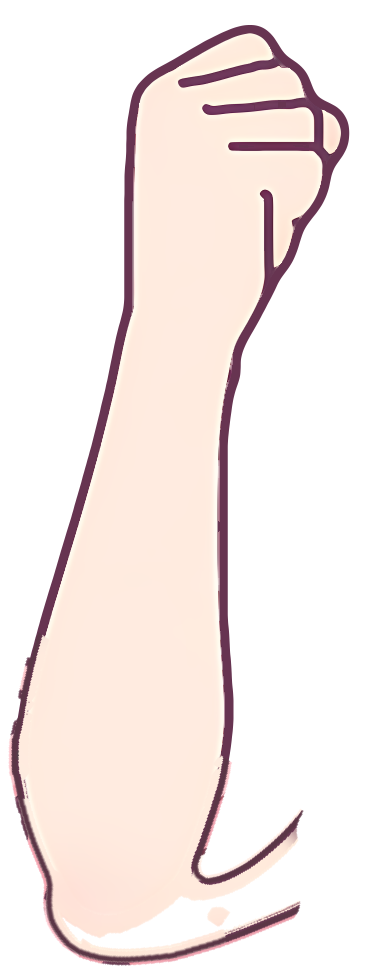
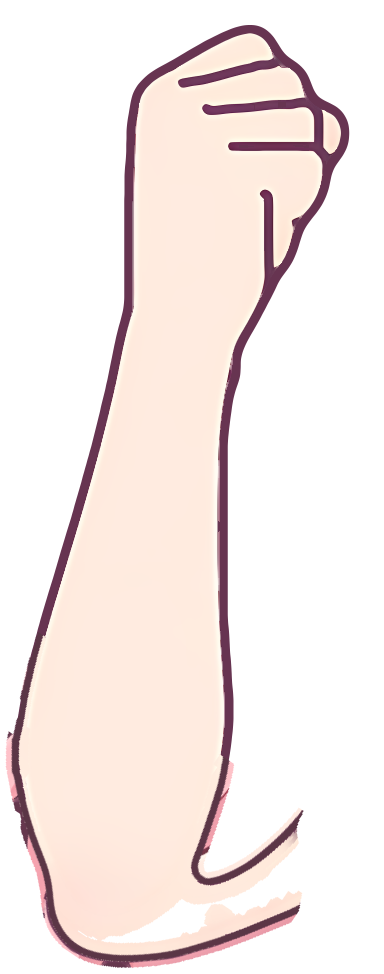
v3 r12: smooth hand_r elbow outline (spline refit), remove arm-left hair spike, clean ghost marks

diff --git a/tools/v3/elbow_r12/fix_elbow2.py b/tools/v3/elbow_r12/fix_elbow2.py
@@ -1,0 +1,87 @@
+import numpy as np, cv2, json
+from PIL import Image
+import comp; comp.PP='/workspace/qa11/el/scratch/'
+from comp import *
+from scipy.ndimage import gaussian_filter1d
+L,M=layers(outfit=True)
+H,W=L['hair'].shape[:2]
+base=compose(L)            # current look (basic)
+hd=L['hand'][...,3]; bu=L['bu'][...,3]; fu=L['fu'][...,3]
+yy,xx=np.mgrid[0:H,0:W]
+# arm part of body_upper only: left of torso line (box coords), rows of elbow
+armzone=(xx<760)&(yy>300)
+U0=((hd>.1)|((bu>.5)&armzone)).astype(np.uint8)
+k=cv2.getStructuringElement(cv2.MORPH_ELLIPSE,(21,21))
+U=cv2.morphologyEx(U0,cv2.MORPH_CLOSE,k)
+U=cv2.GaussianBlur(U.astype(np.float32),(0,0),5)>.5
+U=U.astype(np.uint8)
+cs,_=cv2.findContours(U,cv2.RETR_EXTERNAL,cv2.CHAIN_APPROX_NONE)
+cn=max(cs,key=len)[:,0,:].astype(np.float64)
+def wt(p):
+    x,y=p[:,0],p[:,1]
+    e=np.clip((1-(((x-470)/190.)**2+((y-575)/115.)**2))*4,0,1)
+    k=np.clip(np.maximum((480-x)/15,(y-530)/15),0,1)
+    return e*k
+w=wt(cn)
+sm=np.stack([gaussian_filter1d(gaussian_filter1d(cn[:,i],10,mode='wrap'),6,mode='wrap') for i in (0,1)],1)
+cn2=cn*(1-w[:,None])+sm*w[:,None]
+big=np.zeros((H*4,W*4),np.uint8); cv2.fillPoly(big,[np.round(cn2*4+1.5).astype(np.int32)],1)
+sdb=cv2.distanceTransform(1-big,cv2.DIST_L2,5)-cv2.distanceTransform(big,cv2.DIST_L2,5)
+SD=cv2.resize(sdb,(W,H),interpolation=cv2.INTER_AREA)/4
+U=(SD<0).astype(np.uint8)
+# working area: around the elbow, away from shirt
+work=(yy>380)&(yy<660)&(xx>200)&(xx<640)
+work=work&(cv2.dilate((fu>.05).astype(np.uint8),np.ones((9,9)))==0)
+c=base[...,:3].copy()
+dark=c.sum(2)<1.4
+# skin colour sample & refill interior (kill inner outlines + gap)
+inner=cv2.erode(U,np.ones((15,15)))>0
+bad=inner&work&(dark|( (L['hair'][...,3]>.5)&(hd<.5)&(bu<.5) ))
+bad=cv2.dilate((bad|((hd>.02)&(hd<.98)&(bu>.5))).astype(np.uint8),np.ones((9,9)))>0
+bad&=inner
+bad|=(dark&work&(cv2.distanceTransform(U,cv2.DIST_L2,5)>7))
+good=inner&~bad&work|(inner&~work)
+def refill(img,bad,good,s=9):
+    g=good.astype(np.float32); out=img.copy()
+    num=cv2.GaussianBlur(img*g[...,None],(0,0),s); den=cv2.GaussianBlur(g,(0,0),s)[...,None]
+    out[bad]=(num/np.maximum(den,1e-4))[bad]; return out
+core=bad|(((U>0)&(U0==0))&work)
+dz=cv2.distanceTransform((~core).astype(np.uint8),cv2.DIST_L2,5)
+zf=np.clip((60-dz)/25,0,1)
+d_in0=cv2.distanceTransform(U,cv2.DIST_L2,5)
+rim=(d_in0>0)&(d_in0<11)&work&(((xx-470)/150.)**2+((yy-580)/90.)**2<1)
+bad|=rim
+good&=~rim
+c=refill(c,bad,good,9)
+# new skin area of closed union that was not skin (gap) outside inner as well
+newskin=(U>0)&~(U0>0)&work
+c=refill(c,newskin&~inner,inner&~bad,7) if (newskin&~inner).any() else c
+# single outline: SDF band on union boundary
+d_in=cv2.distanceTransform(U,cv2.DIST_L2,5); d_out=cv2.distanceTransform(1-U,cv2.DIST_L2,5)
+sd=SD
+OL=np.array([0.357,0.212,0.275])
+LW=6.5
+rb=work&(sd>-LW-4)&(sd<0.5)
+g2=(work&(sd<-LW-5)&(sd>-30)&~dark&(c.sum(2)>2.3)).astype(np.float32)
+num=cv2.GaussianBlur(c*g2[...,None],(0,0),4); den=cv2.GaussianBlur(g2,(0,0),4)
+rb&=den>0.15
+c[rb]=(num/np.maximum(den,1e-4)[...,None])[rb]
+ref=cv2.medianBlur((np.clip(c,0,1)*255).astype(np.uint8),9).astype(np.float32)/255
+gz=work&(sd<-LW-1.5)&(xx>380)&(yy>450)&(xx<640)&~(c.sum(2)<1.4)
+gh=gz&(np.abs(c-ref).max(2)>1.2/255)
+gh=cv2.dilate(gh.astype(np.uint8),np.ones((3,3)))>0
+gh&=gz
+c[gh]=ref[gh]
+print('ghost px',gh.sum())
+keep=np.ones((H,W),np.float32)
+lz=work&(xx<335)&(yy<480)
+keep[lz]=np.clip(1.0-sd[lz],0,1)
+np.save('elb_keep.npy',keep)
+a=np.clip(np.minimum(sd+LW+0.5,0.5-sd),0,1)
+band=(np.abs(sd)<9)&work
+c[band]=c[band]*(1-a[band,None])+OL*a[band,None]
+# outside union inside work: the old outer lines of the stub/gap that are now outside -> leave as is (hair)
+# crook crease: short line at the inner corner
+out=base.copy(); out[...,:3]=np.where(work[...,None],c,base[...,:3])
+save(out,'after_box.png')
+np.save('elb_out.npy',out); np.save('elb_work.npy',work)

diff --git a/tools/v3/elbow_r12/comp.py b/tools/v3/elbow_r12/comp.py
@@ -1,0 +1,33 @@
+import numpy as np, cv2
+from PIL import Image
+PP='/workspace/ssb/public/v3-demo/parts/'
+X0,Y0,X1,Y1=400,1400,1300,2300
+th=np.deg2rad(-34); R=np.array([[np.cos(th),-np.sin(th)],[np.sin(th),np.cos(th)]])
+T=np.array([812.8,2006.4]); P0=np.array([20,900])
+def load(n): return np.array(Image.open(PP+n+'.png').convert('RGBA')).astype(np.float32)/255
+def place(n, off):
+    a=load(n); H,W=Y1-Y0,X1-X0; out=np.zeros((H,W,4),np.float32)
+    ox,oy=off[0]-X0,off[1]-Y0
+    ys0,xs0=max(0,oy),max(0,ox); ys1,xs1=min(H,oy+a.shape[0]),min(W,ox+a.shape[1])
+    if ys1>ys0 and xs1>xs0: out[ys0:ys1,xs0:xs1]=a[ys0-oy:ys1-oy,xs0-ox:xs1-ox]
+    return out
+def hand(a=None):
+    if a is None: a=load('hand_r')
+    # C2 = R(p-P0)+T  -> p = R^T(C2-T)+P0 ; build affine for warp from part to box
+    M=np.zeros((2,3)); M[:,:2]=R; M[:,2]=T-R@P0-np.array([X0,Y0])
+    return cv2.warpAffine(a,M,(X1-X0,Y1-Y0),flags=cv2.INTER_LINEAR,borderValue=(0,0,0,0)), M
+def over(dst,src):
+    a=src[...,3:4]; return np.concatenate([src[...,:3]*a+dst[...,:3]*(1-a), a+dst[...,3:4]*(1-a)],2)
+def layers(outfit=True):
+    L={'hair':place('hair_back',(606,204)),'bu':place('body_upper',(778,242)),'bl':place('body_lower',(924,2560))}
+    if outfit: L['fu']=place('basic_upper',(956,1356))
+    L['hand'],M=hand(); return L,M
+def compose(L,order=('hair','bl','bu','fu','hand')):
+    c=np.zeros_like(L['hair']); c[...,:3]=0.08; c[...,3]=1
+    for k in order:
+        if k in L: c=over(c,L[k])
+    return c
+def save(a,f,k=1):
+    im=Image.fromarray((np.clip(a[...,:3],0,1)*255).astype(np.uint8))
+    if k!=1: im=im.resize((im.width*k//2,im.height*k//2),Image.LANCZOS)
+    im.save(f)

diff --git a/tools/v3/elbow_r12/bake3.py b/tools/v3/elbow_r12/bake3.py
@@ -1,0 +1,34 @@
+import numpy as np, cv2, json
+from PIL import Image
+import comp; comp.PP='/workspace/qa11/el/scratch/'
+from comp import *
+L,M=layers(); base=compose(L)
+out=np.load('elb_out.npy'); work=np.load('elb_work.npy')
+aall=np.zeros(base.shape[:2],np.float32)
+for k in ('hair','bl','bu','fu','hand'): aall=aall+L[k][...,3]*(1-aall)
+diff=np.abs(out[...,:3]-base[...,:3]).max(2)>1.5/255
+P=cv2.dilate(diff.astype(np.uint8),np.ones((9,9)))>0
+P&=work&(aall>0.99)
+P=P.astype(np.float32)
+pass
+ys,xs=np.nonzero(P>0)
+# box->part coords: C2 = R(p-P0)+T ; box = C2 - (X0,Y0)
+pts=np.stack([xs+X0,ys+Y0],1).astype(np.float64)
+pp=(pts-T)@R + P0     # R^T applied: (v)@R == R^T v
+print('part bbox',pp.min(0),pp.max(0))
+A=np.array(Image.open(PP+'hand_r.png').convert('RGBA')).astype(np.float32)/255
+h0,w0=A.shape[:2]
+padL,padR,padT,padB=12,0,0,44
+NW,NH=w0+padL+padR,h0+padT+padB
+B=np.zeros((NH,NW,4),np.float32); B[padT:padT+h0,padL:padL+w0]=A
+# warp patch (premultiplied) from box into new part space: part' = R^T(box+X0Y0 - T)+P0+pad
+Minv=np.zeros((2,3)); Minv[:,:2]=R.T; Minv[:,2]=R.T@(np.array([X0,Y0])-T)+P0+np.array([padL,padT])
+src=np.dstack([out[...,:3]*P[...,None],P])
+wp=cv2.warpAffine(src,Minv,(NW,NH),flags=cv2.INTER_LINEAR,borderValue=(0,0,0,0))
+a=wp[...,3:4]; col=wp[...,:3]
+B=np.concatenate([col+B[...,:3]*B[...,3:4]*(1-a), a+B[...,3:4]*(1-a)],2)
+B[...,:3]=B[...,:3]/np.maximum(B[...,3:4],1e-5)
+kp=np.load('elb_keep.npy')
+kw=cv2.warpAffine(kp,Minv,(NW,NH),flags=cv2.INTER_LINEAR,borderValue=1)
+B[...,3]*=kw
+Image.fromarray((np.clip(B,0,1)*255+.5).astype(np.uint8)).save('/workspace/ssb/public/v3-demo/parts/hand_r.png')

diff --git a/tools/v3/elbow_r12/spike_r12.py b/tools/v3/elbow_r12/spike_r12.py
@@ -1,0 +1,18 @@
+import numpy as np, cv2
+from PIL import Image
+from scipy.ndimage import gaussian_filter1d
+import comp
+from comp import *
+PPth=comp.PP
+# ---- 1) hair spike: remove in hair_back & hair_back_wave (part coords) ----
+L,M=layers(); H,W=L['hair'].shape[:2]
+hd=L['hand'][...,3]
+for n in ('hair_back','hair_back_wave'):
+    A=np.array(Image.open(PPth+n+'.png').convert('RGBA'))
+    # box (200..300, 390..452) -> part (box+X0-606, box+Y0-204)
+    bx0,bx1,by0,by1=206,300,388,452
+    sub=hd[by0:by1,bx0:bx1]<0.995            # outside the forearm
+    m=np.zeros(A.shape[:2],bool)
+    m[by0+Y0-204:by1+Y0-204, bx0+X0-606:bx1+X0-606]=sub
+    A[...,3][m]=0
+    Image.fromarray(A).save(PPth+n+'.png')

diff --git a/docs/v3/QA_CHECKLIST.md b/docs/v3/QA_CHECKLIST.md
@@ -88,3 +88,10 @@
 - [x] 옆머리 고리 안쪽 선 옆 흰 점 제거(hair_back, hair_back_wave) — `side_loop_specks_400.png`
 - [x] 팔꿈치: hand_r 아래 끝의 닫힌 외곽선과 윗팔 토막의 이중 외곽선을 하나의 팔꿈치 윤곽으로 합치고 사이 빈틈·얼룩을 피부로 채움. hand_r 캔버스 확장(x 383, width 192, height 487) — `elbow_*_100.png`, `elbow_*_400.png` (idle/wave, basic/none)
 - [x] 390px 전신 — `phone390_fullbody.png`
+
+## Round 12 — 팔꿈치 바깥선 스무딩 (hand_r)
+- hand_r를 원본(ced7bc7 hand_r)에서 재생성: 윤곽 추출 → 가우시안 스플라인 스무딩(σ10→6, 팔꿈치 타원 영역만, 안쪽 접힘 제외) → 4× 래스터 SDF로 굵기 6.5px 일정 안티앨리어싱 선 (tools/v3/elbow_r12/fix_elbow2.py, bake3.py; 캔버스 384×974 고정, skeleton 변경 없음)
+- 팔 왼쪽 삐친 머리카락 제거(hair_back, hair_back_wave; spike_r12.py), 선 안쪽 옛 선 자국 정리
+- 주의: fix_r11 / elbow_r11 / spike_r12는 비멱등 — 재실행 금지(백업에서 복원 후에만)
+- 전후 비교: docs/v3/qa/v3-review15/
+- [ ] 400%에서 선 굵기 일정, 혹·계단·꺾임 없음 / 아래팔·윗팔 선 연결 / 회색 잔선 없음
